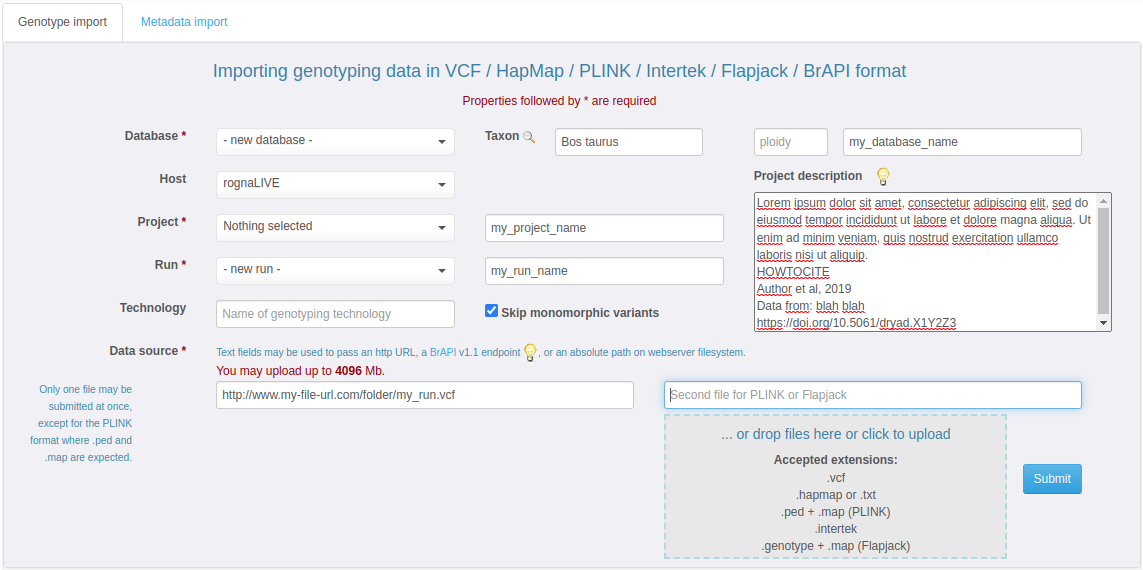
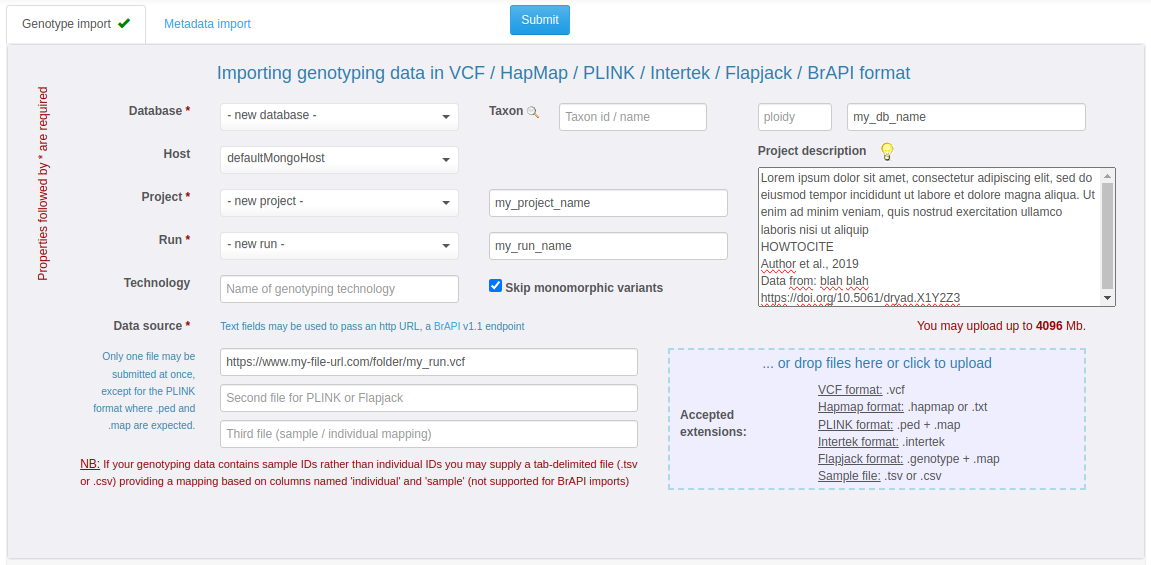
Documentation update

diff --git a/src/main/webapp/docs/gigwa_docs.html b/src/main/webapp/docs/gigwa_docs.html
@@ -41,22 +41,19 @@
                STYLE="margin-top: 0.03in; margin-bottom: 0in; line-height: 100%; page-break-inside: avoid; page-break-after: avoid">
                <FONT COLOR="#2e74b5"><FONT FACE="Arial, sans-serif"><FONT SIZE=3 class='title2'>A1/ IMPORTING DATA</FONT></FONT></FONT>
             </P>
+            <P STYLE="margin-bottom: 0.14in">Choosing "Manage data" then "Import data" from the main horizontal menu leads to a page dedicated to data imports, split in two sections accessible via tabs named "Genotype import" and "Metadata import".
+            </P>
+            <P STYLE="margin-bottom: 0.14in">Anonymous users and users with no particular permissions are limited to importing genotyping data into temporary databases that remain accessible for 24h. These databases are created as public but hidden (only visible to people knowing their precise URL and to administrators).
+            </P>
+            <P STYLE="margin-bottom: 0.14in">From the second tab, users may thus import metadata (traits, phenotypes...) for a database's individuals. Metadata imported by users with write permissions (administrators, database supervisors, project managers)
+            is considered "official" and therefore made available to all users by default. If specified by any other user, it will by only available for himself (thus completing / overriding the default metadata).
+            </P>
             <UL>
                 <LI>
                     <P STYLE="margin-top: 0.03in; margin-bottom: 0in; line-height: 100%; page-break-inside: avoid; page-break-after: avoid">
                       <FONT COLOR="#1f4d78"><FONT FACE="Arial, sans-serif"><FONT SIZE=3>A1.1/ IMPORTING GENOTYPING DATA</FONT></FONT></FONT>
                     </P>
-                    <P STYLE="margin-bottom: 0.14in">Choosing "Manage
-                        data" then "Import data" from the main horizontal menu leads to a page dedicated to data imports.
-                    </P>
-                    <P STYLE="margin-bottom: 0.14in">Anonymous users and users with no particular permissions are limited to importing genotyping data
-                        into temporary databases that remain accessible for 24h. These databases are hidden (only visible to people knowing their precise
-                        URL and to administrators).
-                    </P>
-                    <P STYLE="margin-bottom: 0.14in">From a second tab, users may import metadata for a database's individuals. Metadata imported by users with write permissions (administrators, database supervisors, project managers)
-                    is considered "official" and therefore made available to all users by default. If specified by any other user, it will by only available for himself (thus completing / overriding the default metadata). 
-                    </P>
-                    <P STYLE="margin-bottom: 0.14in"><u>Genotyping data may be provided</u> in various formats (VCF, HapMap, PLINK, FlapJack, Intertek, BrAPI) and in various ways:
+                    <P STYLE="margin-bottom: 0.14in"><u>Genotyping data may be provided</u> in various formats (VCF, HapMap, PLINK, Intertek, FlapJack, BrAPI) and in various ways:
                     </P>
                     <UL>
                         <LI>
@@ -79,45 +76,42 @@
                            <P STYLE="margin-bottom: 0in; line-height: 100%">Project: a project may contain one or several runs;
                            </P>
                         <LI>
-                           <P STYLE="margin-bottom: 0in; line-height: 100%">Run: each import process ends up writing a run into a project. Allowing multiple runs in a project is a way of supporting incremental data loading.
+                           <P STYLE="margin-bottom: 0in; line-height: 100%">Run: each import process ends up adding a run to a project. Allowing multiple runs in a project is a way of supporting incremental data loading. 
                            </P>
                      </UL>
+                     <P STYLE="margin-bottom: 0.14in">For each individual referred to from an import file (e.g., VCF), a sample is added to the database. Thus, this allows accounting for multiple samples for a same individual. By default, samples are given an auto-generated name, but it is possible to make Gigwa consider the names featured in import files as sample names rather than individual names (useful when looking at using BrAPI for browsing data). This is achieved by providing the interface with an additional 2-column tabulated file listing ID mappings (with a header featuring 'individual' and 'sample').
+                     </P>
                      <P STYLE="margin-bottom: 0.14in">Specifying a ploidy level is optional (most of the time, the system is able to guess it) but recommended for Flapjack and HapMap formats (will speed-up imports). A descriptive text can be provided for each project. A tooltipped lightbulb icon explains how to add a how-to-cite text that would then be exported along with any data extracted from the given project.
                      </P>
                      <IMG class="fullwidth" SRC="shot01_import.png" BORDER=0>
                      <P STYLE="margin-bottom: 0.14in">Genotyping data import progress can be watched in real time from the upload page, or via a dedicated
-                        asynchronous progress page (convenient for large datasets), as imports run as background processes and may not be interrupted by users.
+                        asynchronous progress page (convenient for large datasets), as imports run as background processes.
                      </P>
                 </LI>
                 <LI>
                     <P STYLE="margin-top: 0.03in; margin-bottom: 0in; line-height: 100%; page-break-inside: avoid; page-break-after: avoid">
                       <FONT COLOR="#1f4d78"><FONT FACE="Arial, sans-serif"><FONT SIZE=3>A1.2/ IMPORTING METADATA</FONT></FONT></FONT>
                     </P>
-                    <P STYLE="margin-bottom: 0.14in"><u>Providing individual metadata</u> is only supported for existing databases and aims at enabling users to select
-                    them by filtering on that metadata. This is convenient for cases where the individual list is long and / or individual names are not meaningful.
+                    <P STYLE="margin-bottom: 0.14in"><u>Providing metadata</u> may be done either for existing individuals / samples, or while importing them along with genotypes. Individual-level metadata aims at enabling users to batch-select them by filtering on it. This is convenient for cases where the individual list is long and / or individual names are not meaningful.
+                    Sample-level metadata can also be stored by the system but is currently not reflected in the default Gigwa UI (only accessible via BrAPI).
                     </P>
-                    <P STYLE="margin-bottom: 0.14in">Metadata may be provided as a simple tabulated file containing user-defined columns (only one is enforced, named "individual").
+                    <P STYLE="margin-bottom: 0.14in">Metadata may be provided as a simple tabulated file containing user-defined columns (only one is enforced, named 'individual' or 'sample' depending on the selected target entities).
                     </P>
 
-                    <P STYLE="margin-bottom: 0.14in">Importing metadata via BrAPI v1 or v2 is also supported. To do that, you first have to import a file with at least the 3 following columns (in addition of "individual" column):
+                    <P STYLE="margin-bottom: 0.14in">Importing metadata via BrAPI v1 or v2 is also supported. To do that, you must submit a tabulated metadata file with at least the 2 following columns (in addition to above-mentioned mandatory column):
                     </P>
                     <UL>
                         <LI>
-                            <P STYLE="margin-bottom: 0in; line-height: 100%"><B>extRefId</B> which contains the germplasmDbId or sampleDbId (of the BrAPI server);
+                            <P STYLE="margin-bottom: 0in; line-height: 100%"><B>extRefSrc</B> which must contain the BrAPI url (e.g. https://test-server.brapi.org/brapi/v2) to pull entity metadata from;
                             </P>
                         </LI>
                         <LI>
-                            <P STYLE="margin-bottom: 0in; line-height: 100%"><B>extRefSource</B> which contains the BrAPI url (e.g. https://test-server.brapi.org/brapi/v2);
-                            </P>
-                        </LI>
-                        <LI>
-                            <P STYLE="margin-bottom: 0in; line-height: 100%"><B>extRefType</B> which contains either "germplasm" or "sample" (depending on the resource type you want to get information);
+                            <P STYLE="margin-bottom: 0in; line-height: 100%"><B>extRefId</B> which must contain the germplasmDbId or sampleDbId (on the BrAPI server) corresponding to the Gigwa individual or sample respectively referred to on the current line.
                             </P>
                         </LI>
                     </UL>
-                    <P STYLE="margin-bottom: 0.14in"> Then you have to come back to the metadata importing form and click on submit in order to extract data from the BrAPI server(s).
+                    <P STYLE="margin-bottom: 0.14in">As a different extRefSrc may be provided on each line, it is possible to pull data from multiple BrAPI sources at once (user will be prompted for an optional token to use with each of them). In the end, Gigwa will attempt to grab germplasm or sample metadata from BrAPI to supplement user-provided information upon form submission.
                     </P>
-
 
                     <IMG class="fullwidth" SRC="shot01bis_import_md.png" BORDER=0>
                     <P STYLE="margin-bottom: 0.14in">
@@ -168,7 +162,7 @@
                <P STYLE="margin-top: 0.03in; margin-bottom: 0in; line-height: 100%; page-break-inside: avoid; page-break-after: avoid">
                   <FONT COLOR="#1f4d78"><FONT FACE="Arial, sans-serif"><FONT SIZE=3>A2.2/ GROUP COMPARISON</FONT></FONT></FONT>
                </P>
-               <IMG SRC="shot03_genotype_filters.png" BORDER=0 style='float:right; width:274px; margin-top:50px; margin-left:10px;'>
+               <IMG SRC="shot03_genotype_filters.png" BORDER=0 style='float:right; width:278px; margin-top:50px; margin-left:10px;'>
                <P STYLE="margin-bottom: 0.14in">At the bottom of this panel, a dropdown button may be used to display one or two additional panels
                   that allow for more advanced filtering features based on one or two subsets of individuals referred to as groups.
                </P>
@@ -188,7 +182,7 @@
                   <LI>
                      <P STYLE="margin-bottom: 0in; line-height: 100%">
                         <IMG SRC="mb2639ac.jpg" ALIGN=BOTTOM WIDTH=29 HEIGHT=28 BORDER=0>The
-                        <B>magnifier</B> icon (only present when metadata are available)
+                        <B>magnifier</B> icon (only present when individual-level metadata are available)
                         helps selecting individuals according to the metadata attached to
                         them;
                      </P>
@@ -218,31 +212,24 @@
                         the rest of the query;
                      </P>
                   <LI>
-                     <P STYLE="margin-bottom: 0in; line-height: 100%">"Max
-                        missing data" ratio defines how many individuals (among the
-                        selected ones) may have a missing genotype;
+                     <P STYLE="margin-bottom: 0in; line-height: 100%">Ratios of Missing data, Minor Allele Frequency and Heterozygosity can be filtered on via range widgets;
                      </P>
                   <LI>
-                     <P STYLE="margin-bottom: 0in; line-height: 100%">"Minor
-                        allele frequency" can be provided as a range (only
-                        supported for bi-allelic data);
-                     </P>
-                  <LI>
-                     <P  STYLE="margin-bottom: 0.14in; line-height: 100%">The
-                        "Genotype pattern" dropdown provides a list of
+                     <P  STYLE="margin-bottom: 0.14in; line-height: 100%">The "Genotype pattern" dropdown provides a list of
                         genotype patterns that may be applied within the group. Descriptions for those are available via the question-mark icon.
                      </P>
                </UL>
      	    <P LANG="fr-FR" STYLE="margin-bottom: 0.14in">
     	        <SPAN LANG="en-US"><U><B>Useful tip:</B></U></SPAN><SPAN LANG="en-US"> To identify variants for which genotypes are steady within each group but different between them, set both
-    	        groups" genotype pattern to "All or mostly the same". In this case, in each group panel a similarity ratio
-    	        lets users specify how many of the current group"s selected individuals must have the same genotype. Additionally, an extra
-    	        pink panel appears between both group panels, containing a checkbox labelled "Discriminate groups". Checking this
+    	        groups' genotype pattern to "All or mostly the same". In this case, in each group panel a similarity ratio
+    	        lets you specify how many of the current group's selected individuals must have the same genotype. Additionally, checking the "Discriminate groups"
     	        box will ensure that the most frequent genotype in group 1 is different from that in group 2. See online video number 4 for a demonstration.</SPAN>
      	    </P>
      	    <P STYLE="margin-bottom: 0.14in">Note that genotype-level filters are applied in the order they appear: the maximum missing data filter applies first, taking into account truly missing data
-      	      and genotypes treated as missing because of low quality. MAF and genotype pattern queries are then applied at the same time, on the remaining (non-missing) genotypes only.
-      	   </P>
+      	      and genotypes treated as missing because of low quality. MAF &amp; heterozygosity ratios and genotype pattern queries are then applied at the same time, on the remaining (non-missing) genotypes only.
+	  	 	</P>
+     	    <P STYLE="margin-bottom: 0.24in"><u>NB:</u> When working on multi-run projects featuring several samples for a same individual, the following consistency rule had to be defined to be able to apply genotype patterns: for a given individual and variant, if a most frequent genotype exists, it is the one accounted for, otherwise, this data-point is treated as missing.
+      	   	</P>
          </UL>
          <UL>
             <LI>
@@ -291,19 +278,24 @@
                   In the case where data was provided in VCF format containing numeric genotype-level fields (e.g. depth, genotype quality)
                   an additional series can be displayed for each of these fields, on top of the main series;
                </P>
-      	      <IMG class="fullwidth" SRC="shot05_charts.png" BORDER=1 style='margin-top:10px;'>
+      	      <IMG class="fullwidth" SRC="shot05_charts.png" BORDER=1>
       	      <LI>
+           	     <IMG class="fullwidth" SRC="shot05bis_output_tools.png" BORDER=1 style='margin-top:10px;' align='right'>
       	         <P STYLE="margin-bottom: 0in; line-height: 100%">
       	            <IMG SRC="m448bf72b.jpg" ALIGN=BOTTOM HEIGHT=25 BORDER=0> An "External tools" box provides
-      	            means to setup the application for interacting with / pushing data into external
+      	             means to setup the application for interacting with / pushing data into external
          	         tools: an external online genome browser (e.g., GBrowse, JBrowse) can be configured for viewing
-            	      each variant in its genomic context (via an extra icon at the end
-            	      of each table row); a running standalone instance of IGV can be fed with a
-            	      VCF export file (refer to tooltip for details); other online tools
-           		     (e.g. Galaxy, SNiPlay) can also be fed using exported files (click
-            	      online-output-tools icon for details);
-            	      <br><u>NB:</u> Use of external genome browsers or standalone IGV are now discouraged in favor of the newly embedded IGV.js solution
-            	   </P>
+            	     each variant in its genomic context (via an extra icon at the end
+            	     of each table row); a running standalone instance of IGV can be fed with a
+            	     VCF export file (refer to tooltip for details)
+            	 </P>
+            	 <P STYLE="margin-bottom: 0in; line-height: 100%">
+            	     Other third-party online systems (e.g. Galaxy, SNiPlay) can also be fed using files exported with the 'Keep files on server'
+            	     box ticked (click online-output-tools icon for configuration details).       	     
+            	 </P>
+            	 <P STYLE="margin-bottom: 0in; line-height: 100%">
+				 	<u>NB:</u> Use of external genome browsers or standalone IGV are now discouraged in favour of the newly embedded IGV.js solution
+            	 </P>
       	      <LI>
       	         <P STYLE="margin-bottom: 0in; line-height: 100%">
       	            <IMG SRC="m5967ef01.jpg" ALIGN=BOTTOM WIDTH=32 HEIGHT=30 BORDER=0>
@@ -359,7 +351,8 @@
 			<table class="fullwidth" style="width:100%; border:1px #404040 dashed; margin-bottom:10px;" cellpadding='4'>
 				<tr bgcolor="#d0d0d0"><th>Gigwa entity</th><th>GA4GH entity</th><th>BrAPI v1 entity</th><th>BrAPI v2 entity</th></tr>
 				<tr><td bgcolor="#f0f0f0">database or module</td><td>referenceSet or dataset</td><td bgcolor="#f0f0f0">database or map</td><td>program or trial</td></tr>
-				<tr><td bgcolor="#f0f0f0">project</td><td>variantSet</td><td bgcolor="#f0f0f0">genotyping study</td><td>genotyping study or referenceSet</td></tr>
+				<tr><td bgcolor="#f0f0f0">project</td><td>variantSet</td><td bgcolor="#f0f0f0">genotyping study</td><td>genotyping study</td></tr>
+				<tr><td bgcolor="#f0f0f0">assembly</td><td>-</td><td bgcolor="#f0f0f0">-</td><td>referenceSet</td></tr>
 				<tr><td bgcolor="#f0f0f0">run</td><td>-</td><td bgcolor="#f0f0f0">-</td><td>variantSet</td></tr>
 				<tr><td bgcolor="#f0f0f0">sequence</td><td>reference</td><td bgcolor="#f0f0f0">linkageGroup</td><td>reference</td></tr>
 				<tr><td bgcolor="#f0f0f0">variant</td><td>variant</td><td bgcolor="#f0f0f0">marker</td><td>variant</td></tr>
@@ -482,12 +475,14 @@
                <FONT COLOR="#2e74b5"><FONT FACE="Arial, sans-serif"><FONT
                   SIZE=3 class='title2'>B4/ CENTRAL AUTHENTICATION SERVICE COMPATIBILITY</FONT></FONT></FONT>
             </P>
-            <P STYLE="margin-bottom: 0.14in">Single-Sign-On is supported via the implementation of the <a href="https://apereo.github.io/cas/6.0.x/protocol/CAS-Protocol-Specification.html" target="_blank">CAS protocol</a>.
+            <P STYLE="margin-bottom: 0.14in">Single-Sign-On is supported via the implementation of the <a href="https://apereo.github.io/cas/6.5.x/protocol/CAS-Protocol-Specification.html" target="_blank">CAS protocol</a>.
             If your organization is using CAS, making users of your Gigwa instance able to authenticate via their institutional account is as simple as defining the following parameters in WEB-INF/classes/config.properties:
+            </P>
             <ul>
 				<li>casServerURL, pointing to the full authentication URL (including protocol, port number...)
 				<li>enforcedWebapRootUrl, providing the base URL CAS shall redirect to after a successful login
 			</ul>
+            <P STYLE="margin-bottom: 0.14in">Single-Sign-On is supported via the implementation of the <a href="https://apereo.github.io/cas/6.5.x/protocol/CAS-Protocol-Specification.html" target="_blank">CAS protocol</a>.
 			<BR>
 			An optional parameter named casOrganization provides means to specify your organization name, that will then appear on the login page to make things clearer to end users.
 			Enabling CAS authentication does not affect previously created "local" accounts, the system is able to handle both types of accounts simultaneously.
@@ -536,11 +531,11 @@
             <P STYLE="margin-bottom: 0.14in">Administrators can see all
                databases (even if private and/or hidden) and have all privileges on
                them. Only administrators may create permanent databases. This can
-               be done either at import time, or via the main menu"s
+               be done either at import time, or via the main menu's
                "Manage data" link, by subsequently clicking on
                "Manage databases". A simple interface allows then to create an empty
                database on a selected MongoDB host, set the public and hidden flags on existing databases,
-               delete existing projects and databases, and, for administrators and database supervisors, manage dumps.
+               delete existing runs, projects or databases, and, for administrators and database supervisors, manage dumps.
             </P>
             <P STYLE="margin-bottom: 0.14in">The dump/restore functionality was implemented in order to provide means
             to easily generate a copy of an entire database and thus prevent data loss in case of server crash.
@@ -583,7 +578,7 @@
               <IMG SRC="shot07_manage_users.png" BORDER=1 style='margin-top:10px;'>
             </UL>
             <P STYLE="margin-bottom: 0.14in">Thus, a user with the MANAGER role on a project can administer that project in the same way as an
-               administrator, via the main menu"s "Manage data" item also available to him after authentication. The same applies to users with
+               administrator, via the main menu's "Manage data" item also available to him after authentication. The same applies to users with
                the SUPERVISOR role on a database, who can manage all of its contents.
             </P>
       </UL>
@@ -606,39 +601,33 @@
             </P>
       </UL>
       <UL>
-         <UL>
             <LI>
                <P
                   STYLE="margin-top: 0.03in; margin-bottom: 0in; line-height: 100%; page-break-inside: avoid; page-break-after: avoid">
                   <FONT COLOR="#1f4d78"><FONT FACE="Arial, sans-serif"><FONT
-                     SIZE=3>B6.1/ Managing data hosts</FONT></FONT></FONT>
+                     SIZE=3>B7.1/ Managing data hosts</FONT></FONT></FONT>
                </P>
                <P STYLE="margin-bottom: 0.14in">Declaring MongoDB hosts is done
                   via the WEB-INF/classes/applicationContext-data.xml file following
-                  provided examples. Only hosts running with authentication enabled
-                  (refer to MongoDB documentation if needed) must be declared along
-                  with a UserCredentials bean. Note that Gigwa associates them
-                  internally using their IDs: for example, a host named myMongoHost
-                  will expect a UserCredentials bean named myMongoHostCredentials.
+                  provided examples. For hosts running with authentication enabled
+                  (refer to MongoDB documentation if needed) a "credentials" parameter must be supplied for the corresponding mongo:mongoclient tag.
                   Those credentials must be provided for a user declared in MongoDB's
                   admin collection, who has readWriteAnyDatabase and
                   dbAdminAnyDatabase roles. The web-application needs to be reloaded
                   for such changes to be taken into account (please refer to Tomcat
                   documentation if needed).
                </P>
-         </UL>
       </UL>
-      <UL>
       <UL>
       <LI>
          <P
             STYLE="margin-top: 0.03in; margin-bottom: 0in; line-height: 100%; page-break-inside: avoid; page-break-after: avoid">
             <FONT COLOR="#1f4d78"><FONT FACE="Arial, sans-serif"><FONT
-               SIZE=3>B6.2/ Setting configuration properties</FONT></FONT></FONT>
+               SIZE=3>B7.2/ Setting configuration properties</FONT></FONT></FONT>
          </P>
-         <P STYLE="margin-bottom: 0.14in">The
-            WEB-INF/classes/config.properties file may be used to set values
-            for the following parameters:
+         <P STYLE="margin-bottom: 0.14in">
+            By default, configuration parameters shall be set via the WEB-INF/classes/config.properties file. But their values may be superseeded by defining environment variables with the same name prefixed with "GIGWA." (particularly useful when using the Docker version).
+            The list of supported parameters as follows:
          </P>
          <UL>
             <LI>
@@ -728,23 +717,14 @@
                   the default one if it exists.
                </P>
             <LI>
-               <P STYLE="margin-bottom: 0in; line-height: 100%">
-                  <B>onlineOutputTool_N</B> - Any property named onlineOutputTool_N
-                  with N being an integer &gt;= 1 is a way for defining an online
-                  output tool for datasets exported to server. N accepts
-                  consecutive values (if only onlineOutputTool_1 and
-                  onlineOutputTool_3 exist then only onlineOutputTool_1 will be
-                  taken into account). The property value must consist in
-                  semi-colon-separated values. The first one is the label to
-                  display for this tool, the second one is the tool URL (in which
-                  any * character will be replaced at run time with the exported
-                  file"s URL). The third value is optional and may contain a
-                  comma-separated list of file-formats (must match some of those
-                  that the Gigwa instance is able to export: BED, DARWIN,
-                  EIGENSTRAT, FLAPJACK, GFF3, HAPMAP, PLINK, VCF), thus defining
-                  those accepted by the tool (if unspecified, files in any format
-                  will be made available for this tool).
-               </P>
+               	<P STYLE="margin-bottom: 0in; line-height: 100%">
+                  <B>onlineOutputTool_N</B> - Any property named onlineOutputTool_N with N being an integer >= 1 is a way for defining an online output tool for datasets exported to server. N accepts consecutive values (if only onlineOutputTool_1 and onlineOutputTool_3 exist then only onlineOutputTool_1 will be taken into account). The property value must consist in semi-colon-separated values:
+               	</P>
+               	<ul>
+                  	<li>The first one is the label to display for this tool</li>
+					<li>The second one is the tool URL. It is dynamic as it supports lowercase-extension-based placeholders like '{ext1|ext2}' that will be replaced at run time with the first file found among the exported ones that has an extension matching one of those mentioned. Alternatively to using a separate parameter for each file, the wildcard placeholder character '*' may also be used and will be replaced at run time with a comma-separated list featuring all available files in random order</li>
+					<li>The third value is optional and may contain an uppercase, comma-separated list of file-formats (must match some of those that the Gigwa instance is able to export: BED, DARWIN, EIGENSTRAT, FASTA, FLAPJACK, GFF3, HAPMAP, NEXUS, PHYLIP, PLINK, VCF), thus defining those accepted by the tool (if unspecified, files in any format will be made available for this tool)</li>
+				</ul>
             <LI>
                <P STYLE="margin-bottom: 0in; line-height: 100%">
                   <B>maxSearchableBillionGenotypes</B> - Defines the maximum
@@ -816,6 +796,22 @@
                   <font color="red">(Requires installing MongoDB Command Line Database Tools on the machine running Tomcat)</font>
                </P>
          </UL>
+      </UL>
+      <P STYLE="margin-bottom: 0.14in">
          <BR>
+      </P>
+      <UL>
+         <LI>
+            <P
+               STYLE="margin-top: 0.03in; margin-bottom: 0in; line-height: 100%; page-break-inside: avoid; page-break-after: avoid">
+               <FONT COLOR="#2e74b5"><FONT FACE="Arial, sans-serif"><FONT
+                  SIZE=3 class='title2'>B8/ MONGODB CACHE CONFIGURATION</FONT></FONT></FONT>
+            </P>
+            <P STYLE="margin-bottom: 0.14in">In production environments with large amounts of RAM, we found it worth to tune the --wiredTigerCacheSizeGB parameter. If left unspecified, it defaults to nearly a half of the available RAM, and essentially aims at reserving memory for manipulating indexes.
+            As Gigwa does not make an enormous use of indexes, we found that <b>in most cases, setting it to <u>10 Gb</u> is more than enough</b>. This leaves the remaining memory available for other operations such as collection-scans, and can significantly improve performance (at least for searches). 
+            </P>
+            <P STYLE="margin-bottom: 0.14in">We did not take the responsibility to enforce this as a default value in our bundles or Docker images because 10 Gb would be far too high on small servers with a total of, say 16 Gb of RAM. This really has to be thought of according to the overall "platform" sizing. Checking the size occupied by indexes on your largest DB's variantRunData collection is probably a good starting point. Multiplying that by 3 or 5 is probably safe enough, although a more thorough benchmarking would be worth doing...
+            </P>
+      </UL>
    </BODY>
 </HTML>
